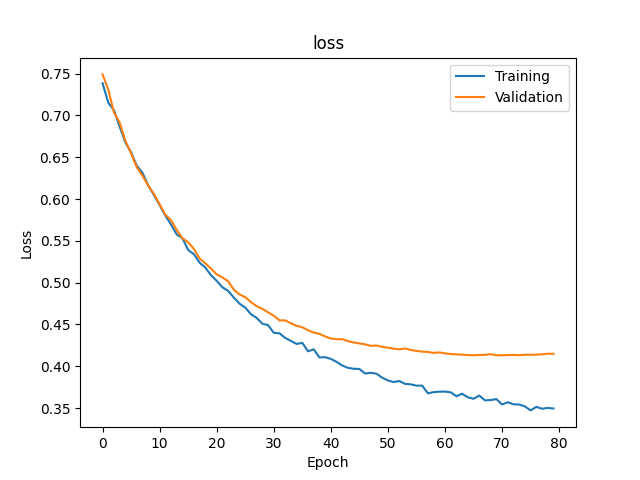
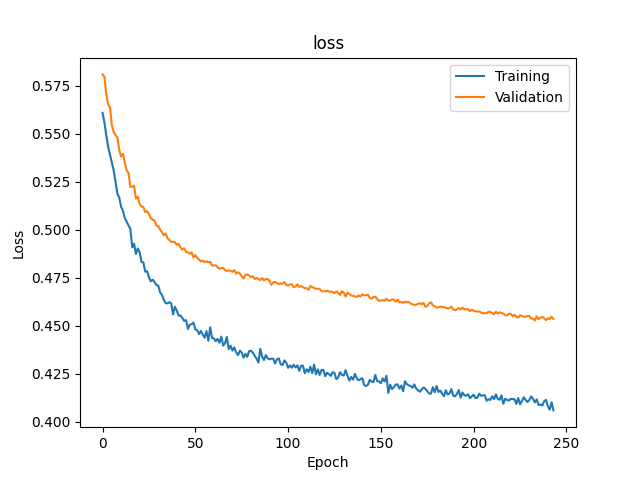
job_apply_processing

diff --git a/Binary_classification/job_apply/job_apply.py b/Binary_classification/job_apply/job_apply.py
@@ -10,6 +10,7 @@ decode_data = pd.read_csv('./dataset/train_job/tags.csv', index_col='tagID')
 user_tags = pd.read_csv('./dataset/train_job/user_tags.csv')
 job_tags = pd.read_csv('./dataset/train_job/job_tags.csv')
 train_data = pd.read_csv('./dataset/train_job/train.csv')
+test_data = pd.read_csv('./dataset/test_job.csv')
 
 # Set train data
 train_y = np.array(train_data['applied'], dtype='float32')
@@ -40,23 +41,49 @@ def vectorize_sequences(sequences, dimension=labels.shape[0]):
 # Data preprocessing (common : count for same job between user and company)
 train_user = [user_tags.loc[i] for i in train_data.userID]
 train_job = [job_tags.loc[i] for i in train_data.jobID]
-common = [len(list(set(user_tags[train_data.loc[i].userID]).intersection(job_tags[train_data.loc[i].jobID]))) for i in
-          range(len(train_data))]
-common = np.array(common) / 10
+test_user = [user_tags.loc[i] for i in test_data.userID]
+test_job = [job_tags.loc[i] for i in test_data.jobID]
+
+# common = [len(list(set(user_tags[train_data.loc[i].userID]).intersection(job_tags[train_data.loc[i].jobID]))) for i in
+#           range(len(train_data))]
+# common = np.array(common) / 10
 
 # Vectorize data
 train_user = vectorize_sequences(train_user)
 train_job = vectorize_sequences(train_job)
-train_user *= 0.5
-train_job *= (-1)
-train_x = train_user + train_job
-for i in train_x:
-    for j in range(len(i)):
-        if i[j] == -0.5:
-            i[j] = 1
+test_user = vectorize_sequences(test_user)
+test_job = vectorize_sequences(test_job)
+
+# i = 0
+# b_size = 0
+# while train_user.shape[1] != b_size:
+#     if i >= train_user.shape[1]:
+#         break
+#     if not train_user[:, i].any() and not test_user[:, i].any() and not train_job[:, i].any() and not test_job[:, i].any():
+#         b_size = train_user.shape[1]
+#         train_user = np.delete(train_user, i, axis=1)
+#         train_job = np.delete(train_job, i, axis=1)
+#         test_user = np.delete(test_user, i, axis=1)
+#         test_job = np.delete(test_job, i, axis=1)
+#         i -= 1
+#     i += 1
+
+# # Way 1
+# train_user *= 0.5
+# train_job *= 0.5
+# train_x = train_user + train_job
+# for i in train_x:
+#     for j in range(len(i)):
+#         if i[j] == 0.5:
+#             i[j] = 0
 
 # Add common data
-train_x = [np.append(common[i], train_x[i]) for i in range(len(train_x))]
+# train_x = [np.append(common[i], train_x[i]) for i in range(len(train_x))]
+train_x = np.concatenate((train_user, train_job), axis=1)
+test_x = np.concatenate((test_user, test_job), axis=1)
+
+
+# train_x = np.array(train_x)
 
 
 # Model structure
@@ -66,20 +93,27 @@ def build_model():
     batch1 = layers.BatchNormalization()(dense1)
     act1 = layers.Activation(activation='relu')(batch1)
 
-    dense2 = layers.Dense(64)(act1)
-    batch2 = layers.BatchNormalization()(dense2)
-    act2 = layers.Activation(activation='relu')(batch2)
+    # dense2 = layers.Dense(64)(act1)
+    # batch2 = layers.BatchNormalization()(dense2)
+    # act2 = layers.Activation(activation='relu')(batch2)
 
-    dense3 = layers.Dense(16)(act2)
-    batch3 = layers.BatchNormalization()(dense3)
-    act3 = layers.Activation(activation='relu')(batch3)
+    # dense3 = layers.Dense(100)(act2)
+    # batch3 = layers.BatchNormalization()(dense3)
+    # act3 = layers.Activation(activation='relu')(batch3)
 
+    # dense4 = layers.Dense(8)(act3)
+    # batch4 = layers.BatchNormalization()(dense4)
+    # act4 = layers.Activation(activation='relu')(batch4)
+    # dense1 = layers.Dense(16)(x)
+    # dense2 = layers.Dense(16)(dense1)
     # dropout1 = layers.Dropout(0.25)(act2)
-    y = layers.Dense(1, activation='sigmoid')(act3)
+    y = layers.Dense(1, activation='sigmoid')(act1)
 
     model = models.Model(x, y)
-
-    model.compile(optimizer=optimizers.RMSprop(learning_rate=1e-5, momentum=0.05), loss='binary_crossentropy',
+    opt = optimizers.SGD(learning_rate=1e-6, decay=1e-8, momentum=0.9, nesterov=True)
+    # opt = optimizers.RMSprop(learning_rate=1e-6)
+    model.compile(optimizer=opt,
+                  loss='binary_crossentropy',
                   metrics=['accuracy'])
     return model
 
@@ -94,14 +128,14 @@ def plot_loss(h, title="loss"):
     plt.legend(['Training', 'Validation'], loc=0)
 
 
-# Normalization
-scaler = MinMaxScaler()
-scaler.fit(train_x)
-train_x = scaler.transform(train_x)
+# # Normalization
+# scaler = MinMaxScaler()
+# scaler.fit(train_x)
+# train_x = scaler.transform(train_x)
 
 # Fit
 model = build_model()
-history = model.fit(train_x, train_y, epochs=100, batch_size=16, validation_split=0.2,
+history = model.fit(train_x, train_y, epochs=500, validation_split=0.1,
                     callbacks=[EarlyStopping(monitor='val_loss', patience=10)])
 plot_loss(history)
 plt.savefig('loss.png')
